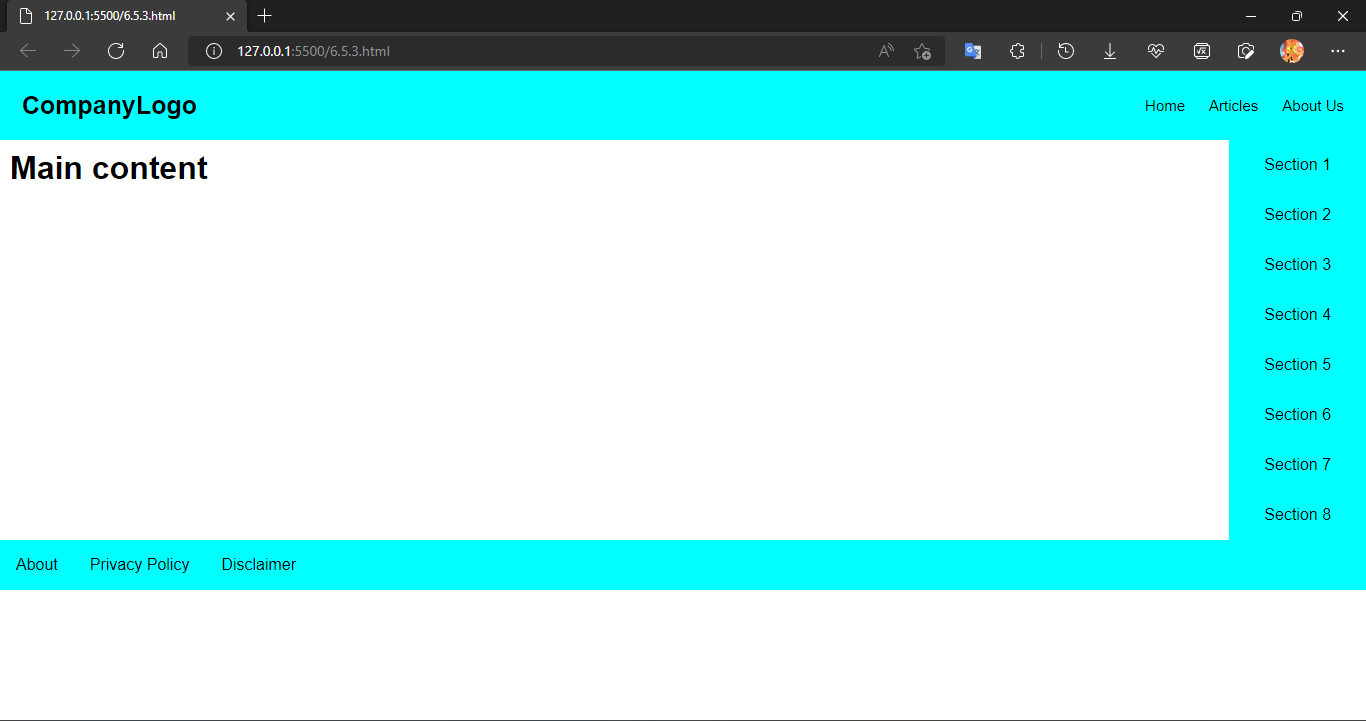
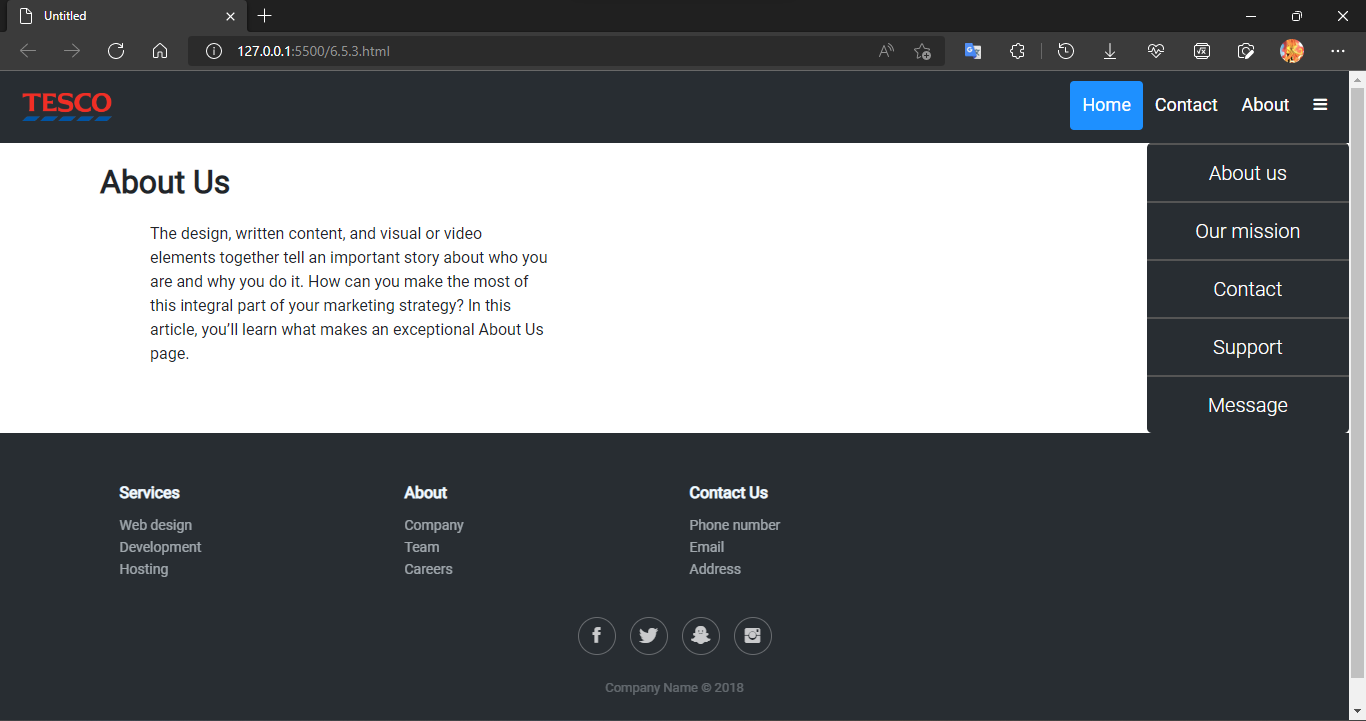
Lab06/6.5

diff --git a/Lab 06/Lab 06-2/6.5/6.5.3.html b/Lab 06/Lab 06-2/6.5/6.5.3.html
@@ -1,157 +1,256 @@
 <!DOCTYPE html>
-<html>
 
 <head>
-    <title>
-
-    </title>
+  <meta charset="utf-8">
+  <meta name="viewport" content="width=device-width, initial-scale=1.0">
+  <title>Untitled</title>
+  <link rel="stylesheet" href="https://cdnjs.cloudflare.com/ajax/libs/twitter-bootstrap/4.1.3/css/bootstrap.min.css">
+  <link rel="stylesheet" href="https://cdnjs.cloudflare.com/ajax/libs/ionicons/2.0.1/css/ionicons.min.css">
+  <link rel="stylesheet" href="assets/css/style.css">
+  <link rel="preconnect" href="https://fonts.googleapis.com">
+  <link rel="preconnect" href="https://fonts.gstatic.com" crossorigin>
+  <link href="https://fonts.googleapis.com/css2?family=Roboto:wght@300;400&display=swap" rel="stylesheet">
 </head>
-<style type="text/css">
-    * {
-        margin: 0;
-        padding: 0;
-        font-family: Arial, Helvetica, sans-serif;
-    }
+<style>
+  * {
+    margin: 0;
+    padding: 0;
+    font-family: 'Roboto', sans-serif;
+  }
 
-    body {
-        background-color: white;
-        color: black;
-    }
+  .header {
+    background-color: #282d32;
+    overflow: hidden;
+    padding: 10px 10px;
+  }
 
-    .header {
-        overflow: hidden;
-        background-color: cyan;
-        padding: 10px 10px;
-    }
+  .header a {
+    float: left;
+    color: white;
+    text-align: center;
+    padding: 12px;
+    text-decoration: none;
+    font-size: 18px;
+    line-height: 25px;
+    border-radius: 4px;
+  }
 
-    .header a {
-        float: left;
-        color: black;
-        text-align: center;
-        padding: 12px;
-        text-decoration: none;
-        font-size: 15px;
-        line-height: 25px;
-        border-radius: 5px;
-    }
+  .header a.logo {
+    font-size: 25px;
+    font-weight: bold;
+  }
 
-    .header a.logo {
-        font-size: 25px;
-        font-weight: bold;
-    }
+  .header a:hover {
+    background-color: #ddd;
+    color: black;
+  }
 
-    .header a:hover {
-        background-color: green;
-        color: white;
-    }
+  .header a.active {
+    background-color: dodgerblue;
+    color: white;
+  }
 
-    .headera.active {
-        background-color: green;
-        color: white;
-    }
+  .header-right {
+    float: right;
+  }
 
-    .header-right {
-        float: right;
-    }
+  .sidebar {
+    float: right;
+    width: 15%;
+  }
 
-    div#main {
-        float: left;
-        height: 400px;
-    }
+  .sidebar ul {
+    margin: 0;
+    padding: 0;
+    overflow: hidden;
+    background-color: #282d32;
+    border-radius: 5px;
+  }
 
-    div#sidebar {
-        float: right;
-        height: 400px;
-        width: 10%;
-        background-color: yellow;
-        color: black;
-    }
+  .sidebar li a {
+    font-size: 20px;
+    display: block;
+    color: white;
+    text-align: center;
+    padding: 13px;
+    border-radius: 5px;
+    font-weight: 200;
+  }
+  .sidebar li{
+    border-top: solid 2px #555555;
+  }
+  .sidebar a:hover {
+    background-color: black;
+    text-decoration: none;
+  }
 
-    div#footer {
-        clear: both;
-        background-color: blue;
-        color: white;
-        text-align: center;
-    }
+  .main {
+    height: 290px;
+    display: flex;
+    flex-wrap: nowrap;
+    justify-content: space-between;
+  }
 
-    ul {
-        list-style-type: none;
-        margin: 0;
-        padding: 0;
-        overflow: hidden;
-        background-color: cyan;
-    }
+  .footer {
+    padding: 50px 0;
+    color: #f0f9ff;
+    background-color: #282d32;
+  }
 
-    .footer-links {
-        list-style-type: none;
-        margin: 0;
-        padding: 0;
-        overflow: hidden;
-        background-color: cyan;
-    }
+  .footer h3 {
+    margin-top: 0;
+    margin-bottom: 12px;
+    font-weight: bold;
+    font-size: 16px;
+  }
 
-    .footer-links li {
-        float: left;
-    }
+  .footer ul {
+    padding: 0;
+    list-style: none;
+    line-height: 1.6;
+    font-size: 14px;
+    margin-bottom: 0;
+  }
 
-    li a {
-        display: block;
-        color: black;
-        text-align: center;
-        padding: 16px;
-        text-decoration: none;
-        border-radius: 5px;
-    }
+  .footer ul a {
+    color: inherit;
+    text-decoration: none;
+    opacity: 0.6;
+  }
 
-    li a:hover {
-        background-color: green;
-        color:white
-    }
+  .footer ul a:hover {
+    opacity: 0.8;
+  }
 
-    h1 {
-        padding: 10px;
-    }
+  .footer .item.text {
+    margin-bottom: 36px;
+  }
+
+  .footer .item.text p {
+    opacity: 0.6;
+    margin-bottom: 0;
+  }
+
+  .footer .item.social {
+    text-align: center;
+  }
+
+  .footer .item.social>a {
+    font-size: 20px;
+    width: 36px;
+    height: 36px;
+    line-height: 36px;
+    display: inline-block;
+    text-align: center;
+    border-radius: 50%;
+    box-shadow: 0 0 0 1px rgba(255, 255, 255, 0.4);
+    margin: 0 8px;
+    color: #fff;
+    opacity: 0.75;
+  }
+
+  .footer .item.social>a:hover {
+    opacity: 0.9;
+  }
+
+  .footer .copyright {
+    text-align: center;
+    padding-top: 24px;
+    opacity: 0.3;
+    font-size: 13px;
+    margin-bottom: 0;
+  }
+
+  .main img {
+    margin-top: 40px;
+    margin-right: 110px;
+    border-radius: 10px;
+  }
+
+  .main h2 {
+    margin: 20px;
+    margin-left: 100px;
+    font-weight: bold;
+  }
+
+  .main p {
+    height: 200px;
+    width: 400px;
+    margin-left: 150px;
+    margin-bottom: 50px;
+  }
 </style>
+</head>
 
 <body>
-    <div class="header">
-        <a href="#default" class="logo">CompanyLogo</a>
-        <div class="header-right">
-            <a class="active" href="#home">Home</a>
-            <a href="#contact">Articles</a>
-            <a href="#about">About Us</a>
-        </div>
+  <div class="header">
+    <a href="#default" class="logo"><img src="logo.png" width="90" height="28"></a>
+    <div class="header-right">
+      <a class="active" href="#home">Home</a>
+      <a href="#contact">Contact</a>
+      <a href="#about">About</a>
+      <a href="#menu"><i class="icon ion-navicon-round"></i></a>
     </div>
-    <div id="sidebar">
-        <nav>
+  </div>
+  <div class="sidebar">
+    <nav>
+      <ul>
+        <li><a href="#section-1">About us</a></li>
+        <li><a href="#section-2">Our mission</a></li>
+        <li><a href="#section-3">Contact</a></li>
+        <li><a href="#section-4">Support</a></li>
+        <li><a href="#section-5">Message</a></li>
+      </ul>
+    </nav>
+  </div>
+  <div class="main">
+    <div>
+      <h2>About Us</h2>
+      <p>The design, written content, and visual or video elements together tell an important story about who you are
+        and
+        why you do it. How can you make the most of this integral part of your marketing strategy? In this article,
+        you’ll
+        learn what makes an exceptional About Us page.
+      </p>
+    </div>
+  </div>
+  <div class="footer">
+    <footer>
+      <div class="container">
+        <div class="row">
+          <div class="col-sm-6 col-md-3 item">
+            <h3>Services</h3>
             <ul>
-                <li><a href="#section-1">Section 1</a></li>
-                <li><a href="#section-2">Section 2</a></li>
-                <li><a href="#section-3">Section 3</a></li>
-                <li><a href="#section-4">Section 4</a></li>
-                <li><a href="#section-5">Section 5</a></li>
-                <li><a href="#section-6">Section 6</a></li>
-                <li><a href="#section-7">Section 7</a></li>
-                <li><a href="#section-8">Section 8</a></li>
+              <li><a href="#">Web design</a></li>
+              <li><a href="#">Development</a></li>
+              <li><a href="#">Hosting</a></li>
             </ul>
-        </nav>
-    </div>
-    <div id="main">
-        <h1>Main content</h1>
-    </div>
-    <div id="footer">
-        <ul class="footer-links">
-            <li>
-                <a href="/about/">About</a>
-            </li>
-            <li>
-                <a href="/privacy-policy/">Privacy Policy</a>
-            </li>
-            <li>
-                <a href="/disclaimer/">Disclaimer</a>
-            </li>
-        </ul>
-    </div>
+          </div>
+          <div class="col-sm-6 col-md-3 item">
+            <h3>About</h3>
+            <ul>
+              <li><a href="#">Company</a></li>
+              <li><a href="#">Team</a></li>
+              <li><a href="#">Careers</a></li>
+            </ul>
+          </div>
+          <div class="col-md-6 item text">
+            <h3>Contact Us</h3>
+            <ul>
+              <li><a href="#">Phone number</a></li>
+              <li><a href="#">Email</a></li>
+              <li><a href="#">Address</a></li>
+            </ul>
+          </div>
+          <div class="col item social"><a href="#"><i class="icon ion-social-facebook"></i></a><a href="#"><i
+                class="icon ion-social-twitter"></i></a><a href="#"><i class="icon ion-social-snapchat"></i></a><a
+              href="#"><i class="icon ion-social-instagram"></i> </a></div>
+        </div>
+        <p class="copyright">Company Name © 2018</p>
+      </div>
+    </footer>
+  </div>
+
 </body>
 
 </html>
